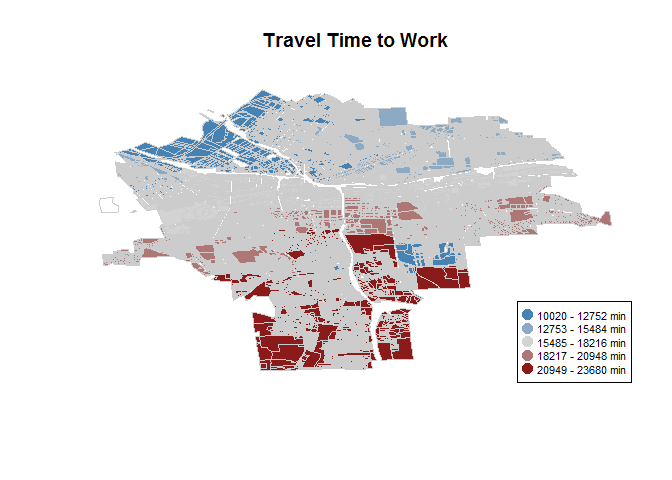
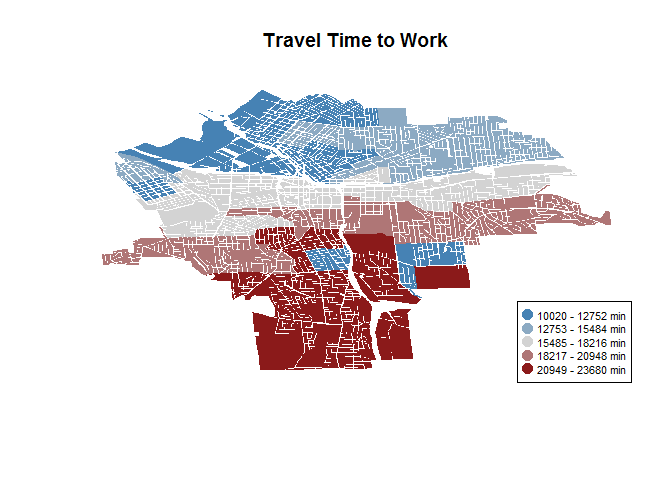
Fixed shapefile border on maps

Changed region(s): [[0.1562, 0.1875, 0.9062, 0.7812]]

diff --git a/Lab 3/KR_Lab_3.md b/Lab 3/KR_Lab_3.md
@@ -103,7 +103,7 @@ Apply color and plot transit time.
 
 ``` r
 color.order <- transport.vector[tract.order]
-plot(syr, border="gray80", col=color.order, main="Travel Time to Work")
+plot(syr, border=FALSE, col=color.order, main="Travel Time to Work")
 
 legend.ranges <- c("10020 - 12752 min","12753 - 15484 min","15485 - 18216 min","18217 - 20948 min","20949 - 23680 min")
 
@@ -133,7 +133,7 @@ Apply color and plot transit time.
 
 ``` r
 color.order <- SM_Above.vector[tract.order]
-plot(syr, border="gray80", col=color.order, main="Single Mothers Above the Poverty Line")
+plot(syr, border=FALSE, col=color.order, main="Single Mothers Above the Poverty Line")
 
 legend.ranges <- c("0 - 44","45 - 88","89 - 132","133 - 176","177 - 218")
 legend("bottomright", bg="white", pch=19, pt.cex=1.5, cex=0.7, legend=legend.ranges, col=color.ramp)
@@ -162,7 +162,7 @@ Apply color and plot transit time.
 
 ``` r
 color.order <- SM_Below.vector[tract.order]
-plot(syr, border="gray80", col=color.order, main="Single Mothers Below the Poverty Line")
+plot(syr, border=FALSE, col=color.order, main="Single Mothers Below the Poverty Line")
 
 legend.ranges <- c("0 - 51","52 - 102","103 - 153","154 - 204","205 - 254")
 
